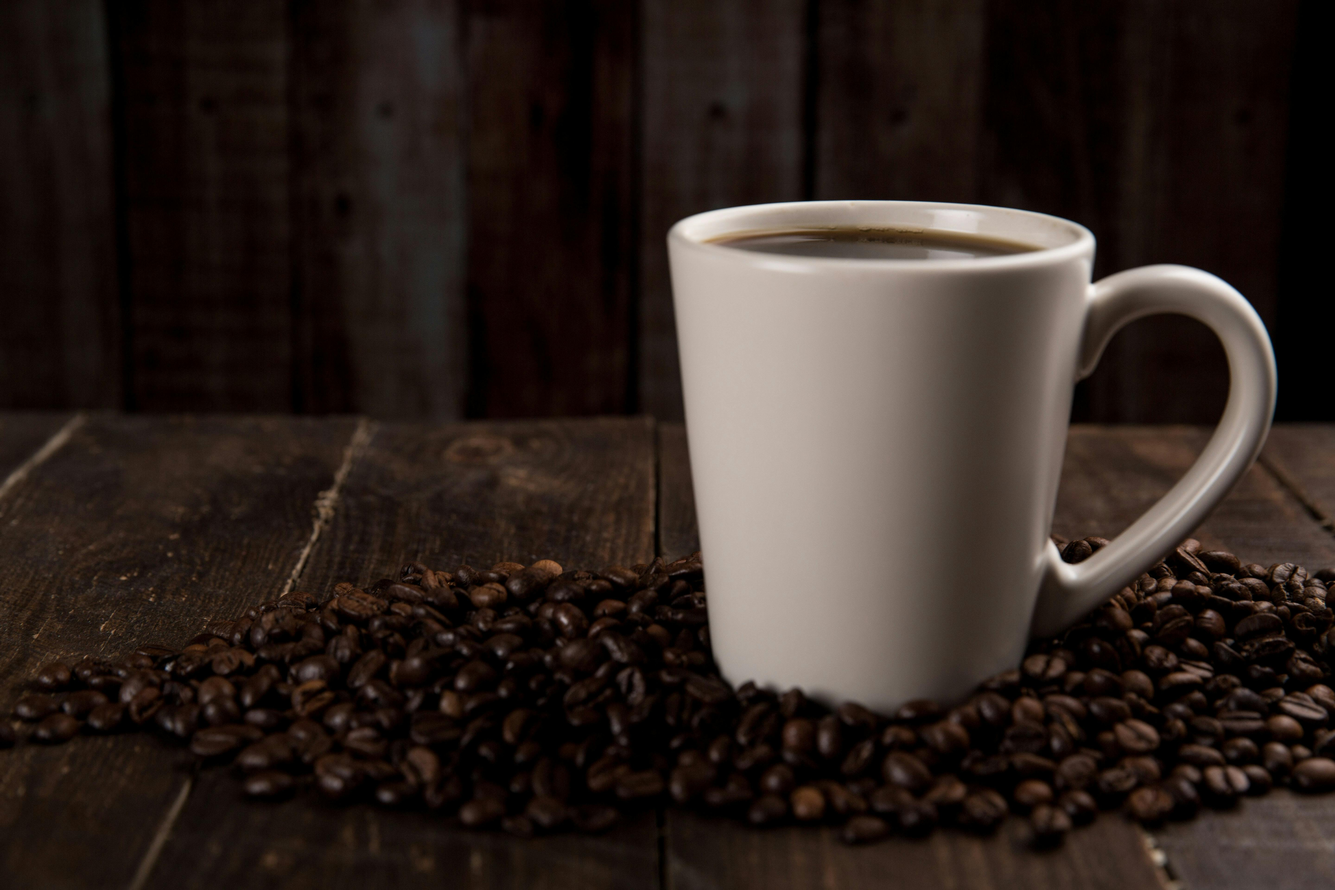
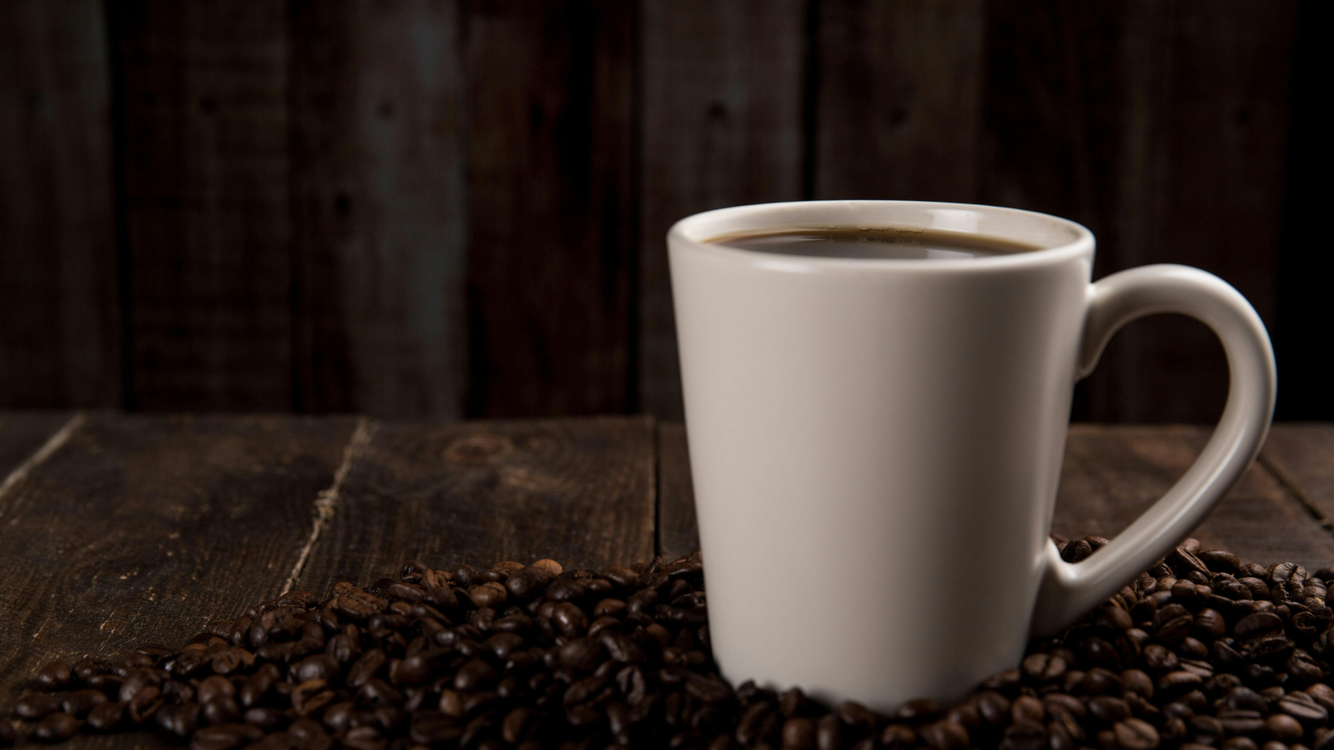
desing for navbar 1.0

Changed region(s): [[0.0, 0.2182, 1.0, 1.0], [0.0933, 0.6235, 0.1244, 0.6546], [0.0, 0.6858, 0.0311, 0.717]]

diff --git a/index.html b/index.html
@@ -77,39 +77,63 @@
         >   
     </head>
     <body>
-        <div class="container navbar">
-            <nav class="navbar navbar-expand-lg bg-body-tertiary">
-                <div class="container-fluid">
-                    <img 
-                        src="images/coffeeLogo.png" 
-                        class="coffeeLogo"
-                        alt="coffee-logo"
+        <!-- navbar section -->
+        <div class="container navbar p-0">
+            <nav class="navbar navbar-expand-lg bg-transparent">
+                <div 
+                    class="container-fluid">
+                    <a 
+                        class="navbar-brand logo" 
+                        href="#"
                     >
-                    <div>
-                        <p>kmt</p>
-                        
-                    </div>
+                        <div>
+                            <img 
+                                src="images/coffeeLogo.png" 
+                                alt="coffee Logo"
+                                class="coffeeLogo"
+                            >
+                            <div class="coffeeShopName">
+                                <p class="">kmt</p>
+                                <p class="">coffee shop</p>
+                            </div>
+                        </div>
+                    </a>
                     <button 
                         class="navbar-toggler" 
                         type="button" 
-                        data-bs-toggle="collapse" 
-                        data-bs-target="#navbarNavAltMarkup" 
-                        aria-controls="navbarNavAltMarkup" 
-                        aria-expanded="false" 
-                        aria-label="Toggle navigation">
+                        data-bs-toggle="collapse" data-bs-target="#navbarSupportedContent" aria-controls="navbarSupportedContent" aria-expanded="false" 
+                        aria-label="Toggle navigation"
+                    >
                         <span class="navbar-toggler-icon"></span>
                     </button>
-                    <div class="collapse navbar-collapse" id="navbarNavAltMarkup">
-                        <div class="navbar-nav">
-                            <a class="nav-link active" aria-current="page" href="#">Home</a>
-                            <a class="nav-link" href="#">Features</a>
-                            <a class="nav-link" href="#">Pricing</a>
-                            
-                        </div>
+                    <div 
+                        class="collapse navbar-collapse navbarMenu" 
+                        id="navbarSupportedContent"
+                    >
+                        <ul class="navbar-nav me-auto mb-2 mb-lg-0">
+                            <li class="nav-item">
+                                <a class="nav-link" aria-current="page" href="#">items</a>
+                            </li>
+                            <li class="nav-item">
+                                <a class="nav-link" href="#">delivery</a>
+                            </li>
+                            <li class="nav-item">
+                                <a class="nav-link" href="#">promotion</a>
+                            </li>
+                            <li class="nav-item">
+                                <a class="nav-link" href="#">contact</a>
+                            </li>
+                        </ul>
                     </div>
                 </div>
-            </nav>
+              </nav>
         </div>
+
+        <!-- header section -->
+        <header>
+            
+            <h1>hello</h1>
+        </header>
     </body>
 </html>
 

diff --git a/style.css b/style.css
@@ -15,14 +15,76 @@
     --six-color: #2980B9;
     --seven-color : #1E8449;
     --eight-color: #FF9801;
+    --ninth-color: #D9D9D9;
+    --tenth-color: #283747;
 
 }
 /* navbar group */
 body {
-    min-width: 100%;
-    min-height: 746px;
-    /* border: 2px solid green; */
+    width: 100%;
+    height: 740px;
+    border: 2px solid green;
+    background: url(images/coffee1.jpg);
+    background-size: 100%;
+    background-repeat: no-repeat;
+    /* background-attachment: fixed; */
+    background-position: center;
 }
+/* logo navbar */
 .coffeeLogo {
-    width: 40px;
+    /* border: 2px solid green; */
+    height: 40px;
+    display: inline-block;
+    justify-content: center;
+    transform: translate(0%, -40%);
 }
+.coffeeShopName {
+    /* border: 2px solid yellowgreen; */
+    display: inline-block;
+    align-items: center;
+}
+.coffeeShopName p{
+    /* border: 2px solid seagreen; */
+    margin: 0px;
+    align-items: center;
+}
+.coffeeShopName > p:first-child {
+    font-size: 22px;
+    text-transform: uppercase;
+    letter-spacing: 1.2px;
+    font-weight: bolder;
+    color: var(--seven-color);
+}
+.coffeeShopName > P:last-child {
+    font-size: 16px;
+    text-transform: capitalize;
+    letter-spacing: 0.9px;
+    font-weight: bolder;
+    color: var(--seven-color);
+}
+.navbarMenu li {
+    border: 2px solid green;
+    float: right;
+}
+.navbar li {
+    width: 180px;
+    height: 40px;
+    padding: 0px;
+    
+}
+/* .navbar li:first-child {
+    margin: 0px 0px 0px 90px;
+} */
+.navbar li a {
+    border: 1px solid var(--tenth-color);
+    border-radius: 12px;
+    text-transform: uppercase;
+    text-align: center;
+    margin: 0px 30px 0px 0px;
+    letter-spacing: 1px;
+    background-color: var(--ninth-color);
+    color: var(--two-color); 
+    /* float: right; */
+}
+
+/* header section */
